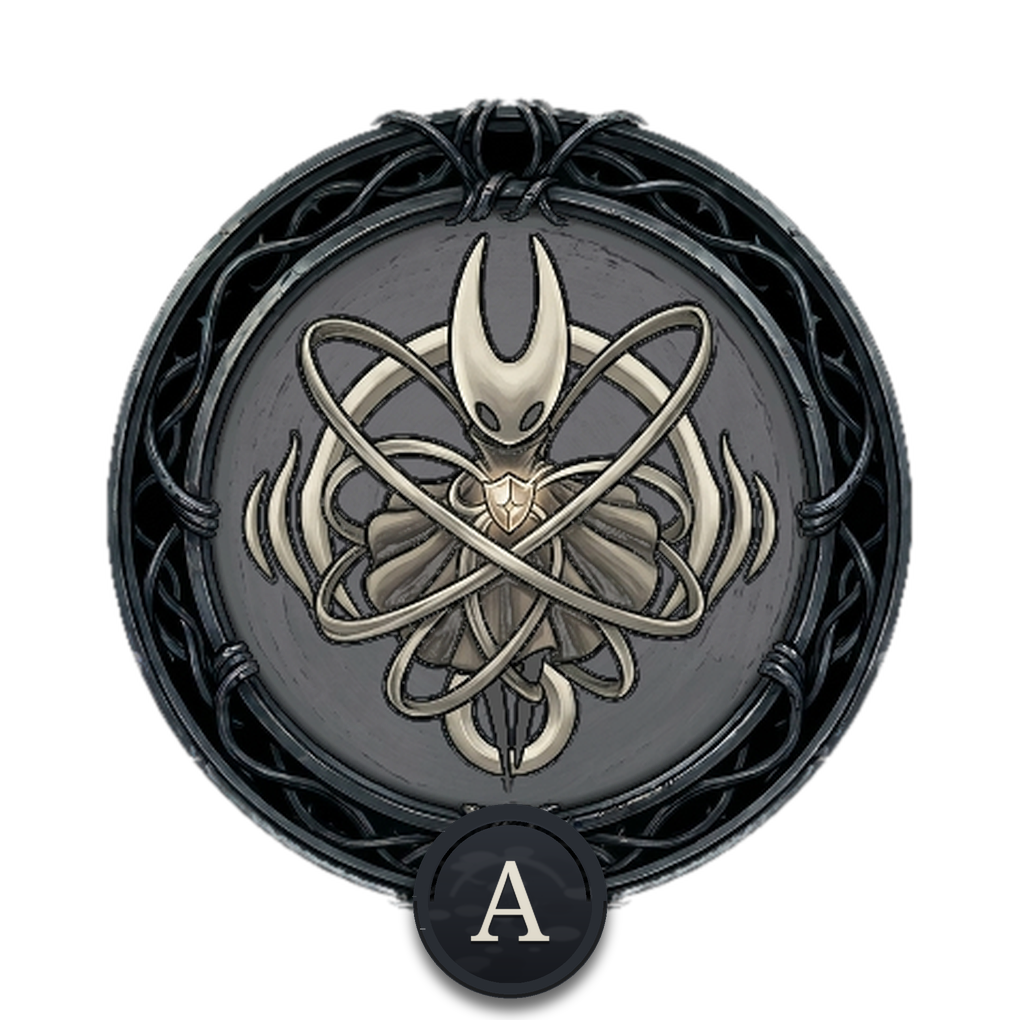
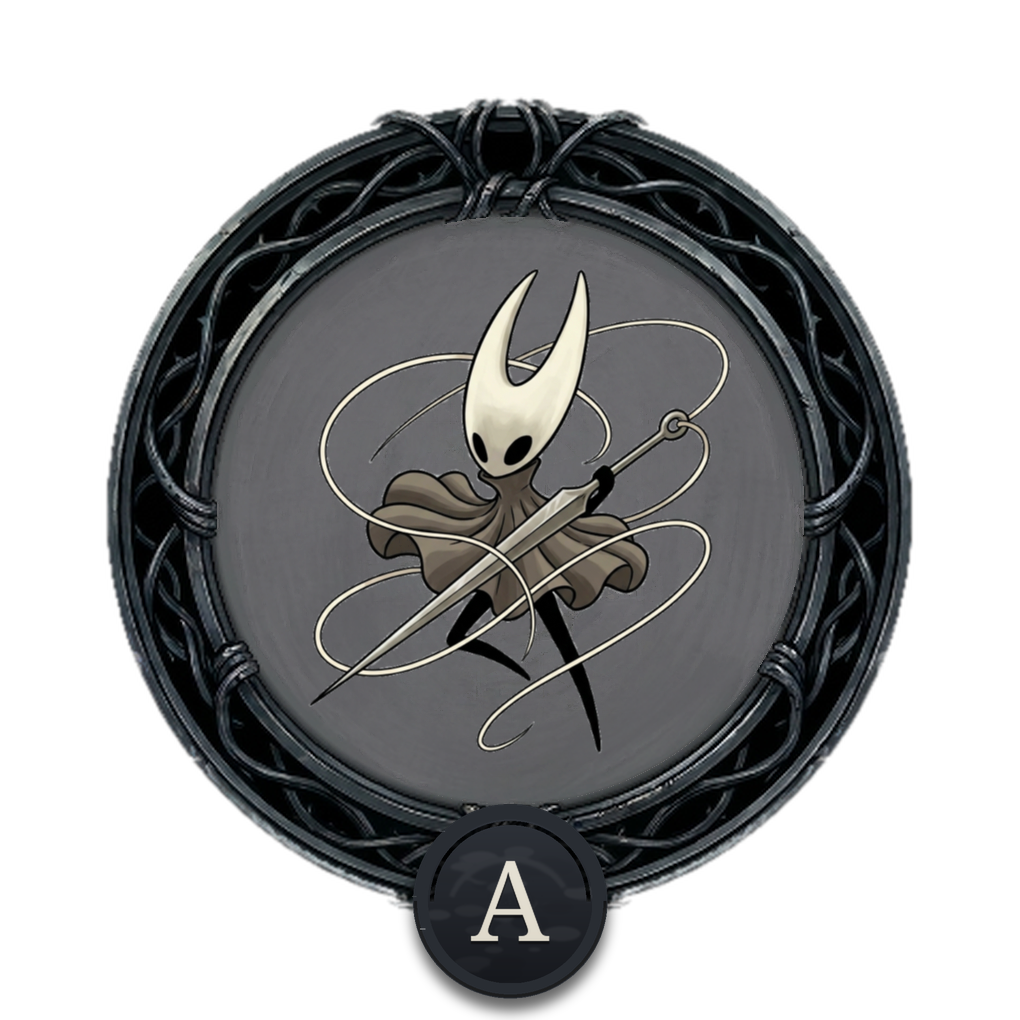
Silksong pad: glass glyphs at one height, title D-pad pitch 110, Needolin/Clawline seats swapped, bag Y key, new Bind art
Glass: two-letter glyphs (ZL/ZR) and the eye's ON/OFF word now size at the
single letters' 0.84 of the drawn radius (was 0.62), and the - / + bars draw
at 0.525 of the radius so a sign's height matches a letter's cap height.
Title D-pad: pitch 120 -> 110 (keys 125 across, overlap 15, cluster centre
unchanged). Combat seats: Needolin takes the attack row's left seat and
Clawline the column seat above Bind (tool unmoved; the controller pages'
letters follow the seats, the custom offsets stay keyed by art name).
Bag: a Y key one column pitch above X, on the crests tab's terms with X
(shown only there or while the tab is unknown, in both draw paths and the
touch routing), with new bagy art in the three image sets. The three image
skins' Bind art is replaced by the new hand-drawn Hornet art, colour-graded
to each set's original Bind values.

Changed region(s): [[0.2127, 0.2127, 0.7902, 0.7902]]

diff --git a/dm/ios/Sources/DmGamepad.m b/dm/ios/Sources/DmGamepad.m
@@ -145,10 +145,10 @@ static const struct { const char *art; int bit; int grp; CGFloat x, y, r; } k_sk
     {"attack",   B_Y,     SK_ALWAYS, 0.7859, 0.770, 0.0374},   // needle attack: the fan's left key, level with the jump pivot
     {"jump",     B_B,     SK_ALWAYS, 0.898, 0.770, 0.0480},   // the fan's pivot at the bottom-right corner, the largest key
     {"dash",     B_ZR,    SK_ALWAYS, 0.8188, 0.5983, 0.0374},   // Swift Step: tap dashes, hold sprints; the fan's 45-degree key
-    {"tool",     B_R,     SK_SKILL,  0.7103, 0.770, 0.0254},   // the equipped tool: in the attack row between Clawline and attack (swapped with Clawline's seat), a 30pt edge gap each side at the reference size; an eye-key skill key
-    {"needolin", B_X,     SK_SKILL,  0.898, 0.3631, 0.0254},   // Needolin: above Bind in its column, a 30pt edge gap over it at the reference size, in its original round frame; an eye-key skill key (the eye hides it with the other two)
+    {"tool",     B_R,     SK_SKILL,  0.7103, 0.770, 0.0254},   // the equipped tool: in the attack row between Needolin and attack, a 30pt edge gap each side at the reference size; an eye-key skill key
+    {"needolin", B_X,     SK_SKILL,  0.6468, 0.770, 0.0254},   // Needolin: in the attack row, leftmost of the three (swapped with Clawline's seat), a 30pt edge gap to the tool at the reference size, in its original round frame; an eye-key skill key (the eye hides it with the other two)
     {"bind",     B_A,     SK_ALWAYS, 0.898, 0.5271, 0.0374},   // Bind (heal): the fan's top key, straight above the jump pivot
-    {"clawline", B_ZL,    SK_SKILL,  0.6468, 0.770, 0.0254},   // Clawline: in the attack row, leftmost of the three (swapped with the tool's seat), a 30pt edge gap to the tool at the reference size; an eye-key skill key
+    {"clawline", B_ZL,    SK_SKILL,  0.898, 0.3631, 0.0254},   // Clawline: above Bind in its column (swapped with the Needolin's seat), a 30pt edge gap over Bind at the reference size; an eye-key skill key
     {"eye",      0,       SK_TOGGLE, 0.670, 0.082, 0.0224},   // show / hide the skill keys
     {"map",      B_L,     SK_ALWAYS, 0.746, 0.082, 0.0224},   // quick map (the top row respaced evenly for four keys, shifted left so pause shares the fan's column)
     {"bag",      B_MINUS, SK_ALWAYS, 0.822, 0.082, 0.0224},   // inventory
@@ -240,16 +240,16 @@ static UIImage *namedPressedImage(const char *name) {   // the pressed-state art
     char pn[64]; snprintf(pn, sizeof pn, "%s_p", name); return skinImage(pn);
 }
 // ---- Bag layout (pad mode 4: the inventory is open) ----
-// While the inventory is open the combat pad gives way to nine keys of its own: a D-pad of four separate keys at the left
-// (the stick and its disc go away), X / A / B in a column at the right, and L / R alone at the top, for the inventory's
+// While the inventory is open the combat pad gives way to ten keys of its own: a D-pad of four separate keys at the left
+// (the stick and its disc go away), X / Y / A / B in a column at the right, and L / R alone at the top, for the inventory's
 // tabs. The layout is the measured one approved on the inventory's own screenshot (1564x720, the 19.5:9 frame): each
 // side's keys centre in the black bar between the inventory's white frame and the screen edge, the two groups share one
 // horizontal line (y 0.6389), and B sat at the combat bottom row's own height (the column scaling below lifts it a
 // hair). The D-pad cross was widened after the
 // first on-device pass: bigger keys (r 0.0248), the vertical pair spread further apart (72 in the frame) and the
-// horizontal pair drawn closer in (52), the group centre unmoved. The X / A / B column is scaled by the combat
+// horizontal pair drawn closer in (52), the group centre unmoved. The X / Y / A / B column is scaled by the combat
 // cluster's own factor (0.9731) about A -- A keeps the groups' shared line and B ends a hair above the combat
-// bottom row -- so the two layouts' right-hand keys shrink together. The X key shows only on the crests tab
+// bottom row -- so the two layouts' right-hand keys shrink together. The X and Y keys show only on the crests tab
 // (bagXShown). Centres and radii follow the k_skin
 // convention, skinCenter's stacking included but without the Up key's disc exemption (the four D-pad keys move as one
 // cross). The art is the bag set in dm/padskin and dm/padskin-badge, made by dm/ios/tools/make_bagskin.py; dir is
@@ -260,6 +260,7 @@ static const struct { const char *art; int bit; int dir; CGFloat x, y, r; } k_ba
     {"bagdleft",  B_LEFT,  0, 0.0384, 0.6389, 0.0248},
     {"bagdright", B_RIGHT, 3, 0.1049, 0.6389, 0.0248},
     {"bagx",       B_X,    -1, 0.9316, 0.4605, 0.0390},
+    {"bagy",       B_Y,    -1, 0.9316, 0.2827, 0.0390},   // one column pitch above X, on the crests tab's terms with it
     {"baga",       B_A,    -1, 0.9316, 0.6390, 0.0390},
     {"bagb",       B_B,    -1, 0.9316, 0.8172, 0.0390},
     {"bagl",       B_L,    -1, 0.0716, 0.075,  0.023},
@@ -267,6 +268,7 @@ static const struct { const char *art; int bit; int dir; CGFloat x, y, r; } k_ba
 };
 #define BAG_N (int)(sizeof k_bag / sizeof k_bag[0])
 #define BAG_X 4   // the X key's row in k_bag: it serves the crests tab alone, so it shows only while that tab is up (bagXShown)
+#define BAG_Y 5   // the Y key's row in k_bag: the crests tab's second key, on the X key's terms (bagXShown)
 static CGPoint bagCenter(int i, CGRect b) {   // bag key i's centre, in points (the layout and the touch hit test share it)
     CGFloat y = k_bag[i].y;
     if (y > 0.2) y = 0.822 + (y - 0.822) * SKIN_REF_HW * b.size.width / b.size.height;
@@ -274,7 +276,7 @@ static CGPoint bagCenter(int i, CGRect b) {   // bag key i's centre, in points (
 }
 static NSString *bagGlyph(int i) {   // a bag key's glass glyph: the letter keys'; the D-pad keys carry a triangle instead
     const char *a = k_bag[i].art;
-    if (!strcmp(a, "bagx")) return @"X"; if (!strcmp(a, "baga")) return @"A"; if (!strcmp(a, "bagb")) return @"B";
+    if (!strcmp(a, "bagx")) return @"X"; if (!strcmp(a, "bagy")) return @"Y"; if (!strcmp(a, "baga")) return @"A"; if (!strcmp(a, "bagb")) return @"B";
     if (!strcmp(a, "bagl")) return @"L"; if (!strcmp(a, "bagr")) return @"R";
     return nil;
 }
@@ -326,15 +328,15 @@ static CGFloat letArtScale(void) {   // every letter key ships a badge version o
 // ---- Title D-pad (pad modes 5 and 7: the menu pages' direction keys, in place of the stick) ----
 // Four separate keys in the bag page's plus arrangement, but at equal pitch both ways (the bag
 // page's horizontal squeeze dodges the inventory's art; the menu pages have nothing to dodge):
-// on the reference screen each key is 125 across, the centres 120 apart in both axes (the
-// four keys overlap by 5), the cluster centred at
+// on the reference screen each key is 125 across, the centres 110 apart in both axes (the
+// four keys overlap by 15), the cluster centred at
 // (0.1077, 0.7222). dir is triPath's order, for the glass keys' arrows; the art is the bag
 // set's own D-pad art (bagd*)
 static const struct { const char *art; int bit; int dir; CGFloat x, y, r; } k_tpad[] = {
-    {"bagdleft",  B_LEFT,  0, 0.0565, 0.7222, 0.02666},
-    {"bagdup",    B_UP,    1, 0.1077, 0.6111, 0.02666},
-    {"bagddown",  B_DOWN,  2, 0.1077, 0.8333, 0.02666},
-    {"bagdright", B_RIGHT, 3, 0.1589, 0.7222, 0.02666},
+    {"bagdleft",  B_LEFT,  0, 0.0608, 0.7222, 0.02666},
+    {"bagdup",    B_UP,    1, 0.1077, 0.6204, 0.02666},
+    {"bagddown",  B_DOWN,  2, 0.1077, 0.8240, 0.02666},
+    {"bagdright", B_RIGHT, 3, 0.1546, 0.7222, 0.02666},
 };
 #define TPAD_N (int)(sizeof k_tpad / sizeof k_tpad[0])
 static CGPoint tpadCenter(int j, CGRect b) {   // title D-pad key j's centre, in points (titleCenter's remap, so the cross keeps its shape on any screen)
@@ -567,7 +569,7 @@ static void pads_start(void);   // Physical controllers, below
     CAShapeLayer *_editRing;                       // the ring around the editor's selected key
     CALayer *_skipKey, *_padKey;   // the cutscene keys: the skin's Skip medallion at the Bind key's place, its Pad medallion at the eye key's place (drawn in every skin mode, glass included)
     int _padMode; BOOL _padPeek;                   // the host's pad mode (hle_hid.c dm_pad_mode) and the player's recall of the pad for the rest of the mode
-    int _padTab;                                   // the host's inventory tab (dm_pad_tab) as last polled: a change inside the inventory only re-runs refresh (the bag X key follows the crests tab)
+    int _padTab;                                   // the host's inventory tab (dm_pad_tab) as last polled: a change inside the inventory only re-runs refresh (the bag X and Y keys follow the crests tab)
     int _padPage;                                  // the host's current page (dm_pad_page) as last polled: a change between the controller pages only re-runs refresh
     NSTimer *_padTimer;                            // polls the pad mode while the skin is up
     BOOL _hades;                                   // DM_PAD_HADES: the glass controls below replace the drawn ones
@@ -789,10 +791,10 @@ static CGFloat dist(CGPoint a, CGPoint b) { return hypot(a.x - b.x, a.y - b.y); 
         if (dist(p, c) <= skinR(i) * b.size.width * 1.35) return i; }
     return -1;
 }
-- (int)bagBtnAt:(CGPoint)p {   // bag mode: the bag key under the point, or -1 (the X key takes no touch while it is hidden off the crests tab)
+- (int)bagBtnAt:(CGPoint)p {   // bag mode: the bag key under the point, or -1 (the X and Y keys take no touch while they are hidden off the crests tab)
     CGRect b = self.bounds;
     for (int j = 0; j < BAG_N; j++) {
-        if (j == BAG_X && ![self bagXShown]) continue;
+        if ((j == BAG_X || j == BAG_Y) && ![self bagXShown]) continue;
         CGPoint c = bagCenter(j, b);
         if (dist(p, c) <= k_bag[j].r * b.size.width * 1.35) return j; }
     return -1;
@@ -923,7 +925,7 @@ static CGFloat dist(CGPoint a, CGPoint b) { return hypot(a.x - b.x, a.y - b.y); 
                 [self updateEditInfo]; [self setNeedsLayout]; continue; }
             if ((_padMode == 2 || _padMode == 3) && !_padPeek && dist(p, skinCenter(7, self.bounds)) <= skinR(7) * self.bounds.size.width * 1.35) { _padPeek = YES; [self applyPadMode]; continue; }   // the Pad recall key: the pad comes back for the rest of the cutscene
             if (_padMode == 3 && !_padPeek && dist(p, skinCenter(5, self.bounds)) <= skinR(5) * self.bounds.size.width * 1.35) { [_owner setObject:@(C_BTN | (uint64_t)B_A << 8) forKey:t]; continue; }   // the Skip key: A, through the usual input path
-            if (_padMode == 4) { int bb = [self bagBtnAt:p]; if (bb >= 0) { [_owner setObject:@(C_BTN | (uint64_t)k_bag[bb].bit << 8) forKey:t]; continue; } game |= [self gameBegin:t]; continue; }   // the bag layout: its nine keys take the touch (no stick: the disc is gone); every other touch is the game's
+            if (_padMode == 4) { int bb = [self bagBtnAt:p]; if (bb >= 0) { [_owner setObject:@(C_BTN | (uint64_t)k_bag[bb].bit << 8) forKey:t]; continue; } game |= [self gameBegin:t]; continue; }   // the bag layout: its ten keys take the touch (no stick: the disc is gone); every other touch is the game's
             if (_padMode == 5 || _padMode == 7) { int tb = [self titleBtnAt:p]; if (tb >= 0) { [_owner setObject:@(C_BTN | (uint64_t)k_title[tb].bit << 8) forKey:t]; continue; }
                 int tp = [self tpadBtnAt:p]; if (tp >= 0) { [_owner setObject:@(C_BTN | (uint64_t)k_tpad[tp].bit << 8) forKey:t]; continue; }
                 game |= [self gameBegin:t]; continue; }   // the menu pages (and the achievements page, B alone through titleBtnAt): the D-pad and its letter keys take the touch (no stick there: its Up key would double-fire under the D-pad's); every other touch is the game's
@@ -998,15 +1000,15 @@ static CGFloat dist(CGPoint a, CGPoint b) { return hypot(a.x - b.x, a.y - b.y); 
 // the glass controls at their places stay hidden with the rest of the glass pad while they show.
 // Mode 4 (the inventory is open) is not a hiding: the combat pad gives way to the bag layout (k_bag) for as long as the
 // inventory lasts — the stick disc and knob included — and closing the inventory restores the pad exactly as it was.
-// Inside the inventory the bag's X key follows the game's own current tab (dm_pad_tab): it serves the crests tab alone,
-// so it hides on the other tabs and comes back with the crests; while the tab reads unknown it stays shown
+// Inside the inventory the bag's X and Y keys follow the game's own current tab (dm_pad_tab): they serve the crests tab alone,
+// so they hide on the other tabs and come back with the crests; while the tab reads unknown they stay shown
 // Modes 5 (the menu pages, and the pause with its options branch), 6 (the controller pages) and 7 (the
 // achievements page) are not hidings either: the menu pages swap the stick for a D-pad (k_tpad) beside
 // their two letter keys (k_title), the achievements page keeps the D-pad and B alone (k_title's second key), the controller pages keep every key at its seat with its letter in place of its icon
 // (the let* layers, the glass skin's own labels), the skill keys' eye gate aside, so the key-binding page can be worked.
 // Before the watcher publishes its first mode the mode reads -1 and the whole pad is hidden: the game is still loading
 - (BOOL)padHidden { return _padMode != 0 && _padMode != 5 && _padMode != 6 && _padMode != 7 && !_padPeek; }   // play and the menu layouts show their own keys; every other mode hides the combat pad, the unpublished -1 with them
-- (BOOL)bagXShown { int t = dm_pad_tab(); return t < 0 || t == 1; }   // the bag's X key serves the crests tab alone: shown on that tab, and while the tab is unknown (the hero unread or a value out of range) -- never hidden on a guess
+- (BOOL)bagXShown { int t = dm_pad_tab(); return t < 0 || t == 1; }   // the bag's X and Y keys serve the crests tab alone: shown on that tab, and while the tab is unknown (the hero unread or a value out of range) -- never hidden on a guess
 - (BOOL)skinKeyHidden:(int)i {   // skin key i's icon layer in the current mode: the one rule applyPadMode and refresh share
     if (!_sSkinMode) return YES;   // the glass choice draws its own discs; the image layers stay hidden under it
     if (_editing) return NO;   // the layout editor shows every key, the eye's hidden skill keys included
@@ -1073,7 +1075,7 @@ static CGFloat dist(CGPoint a, CGPoint b) { return hypot(a.x - b.x, a.y - b.y); 
     for (int j = 0; j < TPAD_N; j++) _tpadBtn[j].hidden = !(_padMode == 5 || _padMode == 7) || !_sSkinMode;   // the title D-pad's art layers ride the menu pages with the letter keys
     for (int j = 0; j < TITLE_N; j++) _tGlass[j].hidden = _tWash[j].hidden = _tLabel[j].hidden = !((_padMode == 5) || (_padMode == 7 && k_title[j].bit == B_B)) || _sSkinMode != 0;   // the glass choice's own title discs, on the title keys' terms
     for (int j = 0; j < TPAD_N; j++) _pGlass[j].hidden = _pWash[j].hidden = _pSym[j].hidden = !(_padMode == 5 || _padMode == 7) || _sSkinMode != 0;   // the glass choice's title D-pad
-    for (int j = 0; j < BAG_N; j++) _bagBtn[j].hidden = !bag || !_sSkinMode || (j == BAG_X && ![self bagXShown]);
+    for (int j = 0; j < BAG_N; j++) _bagBtn[j].hidden = !bag || !_sSkinMode || ((j == BAG_X || j == BAG_Y) && ![self bagXShown]);
     _skipKey.hidden = !(_padMode == 3 && !_padPeek);   // the cutscene keys are drawn medallions in every skin mode, the glass choice included: the glass pad yields their places (its box hides below, each glass key in refresh, both with padHidden)
     _padKey.hidden = !((_padMode == 2 || _padMode == 3) && !_padPeek);
     if (_sGlassBox) _sGlassBox.hidden = _sSkinMode >= 1 || ([self padHidden] && !bag);   // the glass box: covered by the image skin; hidden while the pad is, except in the inventory, whose glass keys live in it
@@ -1178,9 +1180,9 @@ static void placeLabel(CATextLayer *t, CGPoint c, CGFloat fs) {
                 CGFloat dr = r * GLASS_BTN_F;   // the drawn disc at 0.93 of the nominal radius (GLASS_BTN_F), its glyph and wash scaled with it
                 _sGlass[i].frame = CGRectMake(c.x - dr, c.y - dr, 2 * dr, 2 * dr); glassDiscLayout(_sGlass[i], dr);
                 setPath(_sWash[i], circlePath(c, dr));
-                if (_sLabel[i]) placeGlassLabel(_sLabel[i], c, silkGlyph(i).length > 1 ? dr * 0.62 : dr * 0.84);   // the restyle's glyph sizes: a single letter at 0.42 of the disc's height, a two-letter one at 0.31
-                else if (_sSym[i]) setPath(_sSym[i], k_skin[i].grp == SK_TOGGLE ? circlePath(c, dr * 0.20) : symPath(c, dr, k_skin[i].bit == B_PLUS));
-                if (k_skin[i].grp == SK_TOGGLE && _eyeLabel) placeGlassLabel(_eyeLabel, c, dr * 0.62); }   // the eye's state word, sized as a two-letter glyph
+                if (_sLabel[i]) placeGlassLabel(_sLabel[i], c, dr * 0.84);   // the restyle's glyph size: every letter at 0.42 of the disc's height, one letter or two
+                else if (_sSym[i]) setPath(_sSym[i], k_skin[i].grp == SK_TOGGLE ? circlePath(c, dr * 0.20) : symPath(c, dr * 0.525, k_skin[i].bit == B_PLUS));   // the - / + bars at 0.525 of the disc's radius, so a sign's height matches a letter's cap height
+                if (k_skin[i].grp == SK_TOGGLE && _eyeLabel) placeGlassLabel(_eyeLabel, c, dr * 0.84); }   // the eye's state word, at the letters' size
             for (int j = 0; j < BAG_N; j++) if (_bGlass[j]) { CGFloat r = k_bag[j].r * b.size.width; CGPoint c = bagCenter(j, b);
                 CGFloat dr = r * GLASS_BTN_F;
                 _bGlass[j].frame = CGRectMake(c.x - dr, c.y - dr, 2 * dr, 2 * dr); glassDiscLayout(_bGlass[j], dr);
@@ -1259,8 +1261,8 @@ static void placeLabel(CATextLayer *t, CGPoint c, CGFloat fs) {
             _skinBtn[i].contents = (id)(p ? p : skinImage(k_skin[i].art)).CGImage;
             _skinBtn[i].opacity = (_editing && _skillOff && k_skin[i].grp == SK_SKILL) ? 0.45 : 1.0;   // in the editor the eye's hidden skill keys show dimmed: shown (the editor shows every key), but marked as the hidden ones
             _skinBtn[i].transform = on ? CATransform3DMakeScale(0.93, 0.93, 1) : CATransform3DIdentity; }
-        if (_sSkinMode) for (int j = 0; j < BAG_N; j++) {   // the bag keys, shown only in the inventory, press like skin keys: the _p art and a dip while held (the X key only on the crests tab)
-            _bagBtn[j].hidden = _padMode != 4 || (j == BAG_X && ![self bagXShown]);
+        if (_sSkinMode) for (int j = 0; j < BAG_N; j++) {   // the bag keys, shown only in the inventory, press like skin keys: the _p art and a dip while held (the X and Y keys only on the crests tab)
+            _bagBtn[j].hidden = _padMode != 4 || ((j == BAG_X || j == BAG_Y) && ![self bagXShown]);
             BOOL on = (_btnBits >> k_bag[j].bit) & 1;
             UIImage *p = on ? bagPressedImage(j) : nil;
             _bagBtn[j].contents = (id)(p ? p : skinImage(k_bag[j].art)).CGImage;
@@ -1305,9 +1307,9 @@ static void placeLabel(CATextLayer *t, CGPoint c, CGFloat fs) {
             CGPoint go = o; CGFloat gm = 0.604 * sR; if (ol > gm) { go.x *= gm / ol; go.y *= gm / ol; }   // the glass knob's own reach (see the clamp above)
             _sKnob.center = CGPointMake(h.x + go.x, h.y + go.y);
             _sStick.hidden = _sKnob.hidden = [self padHidden] || _padMode == 4 || _padMode == 5 || _padMode == 7;   // the menu pages have the D-pad in the stick's place
-            for (int j = 0; j < BAG_N; j++) { if (!_bWash[j]) continue;   // the bag keys as glass: shown only in the inventory, each key's wash lit while it is held (the X key only on the crests tab)
+            for (int j = 0; j < BAG_N; j++) { if (!_bWash[j]) continue;   // the bag keys as glass: shown only in the inventory, each key's wash lit while it is held (the X and Y keys only on the crests tab)
                 _bWash[j].opacity = ((_btnBits >> k_bag[j].bit) & 1) ? 0.35 : 0;
-                BOOL hid = _padMode != 4 || (j == BAG_X && ![self bagXShown]);
+                BOOL hid = _padMode != 4 || ((j == BAG_X || j == BAG_Y) && ![self bagXShown]);
                 if (_bGlass[j]) _bGlass[j].hidden = hid;
                 if (_bLabel[j]) _bLabel[j].hidden = hid;
                 if (_bSym[j]) _bSym[j].hidden = hid;
